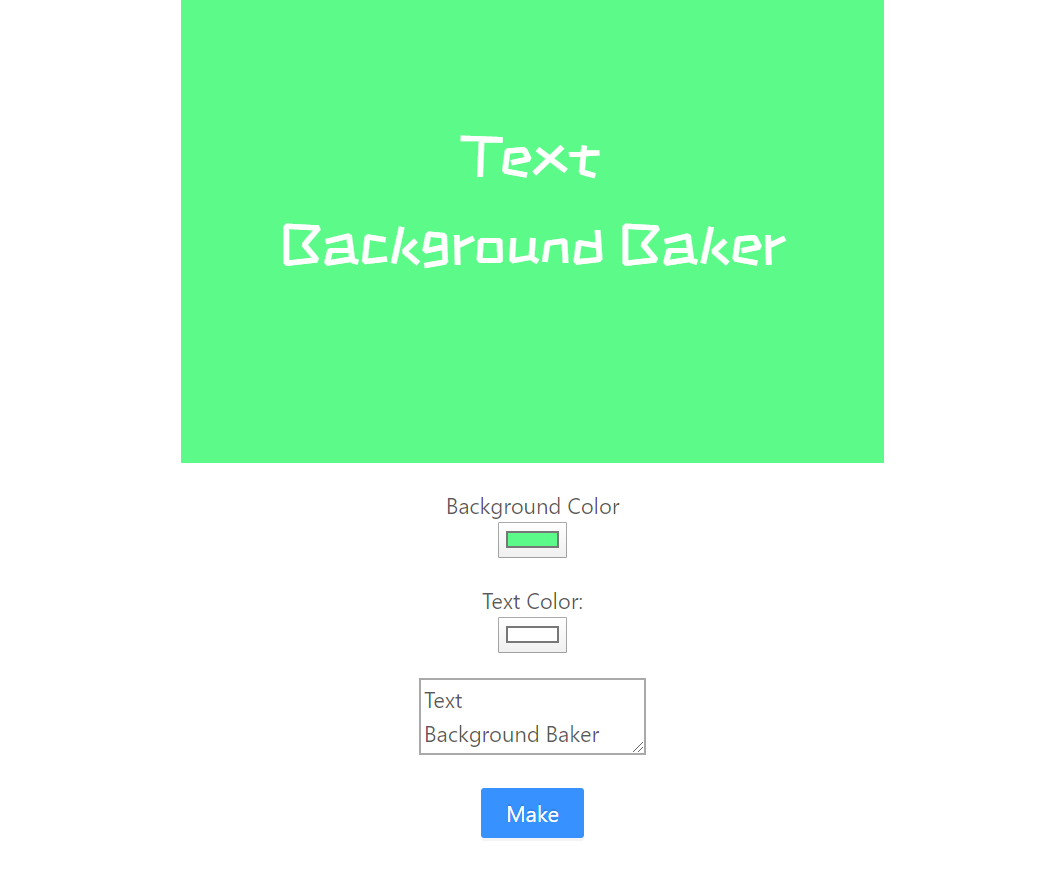
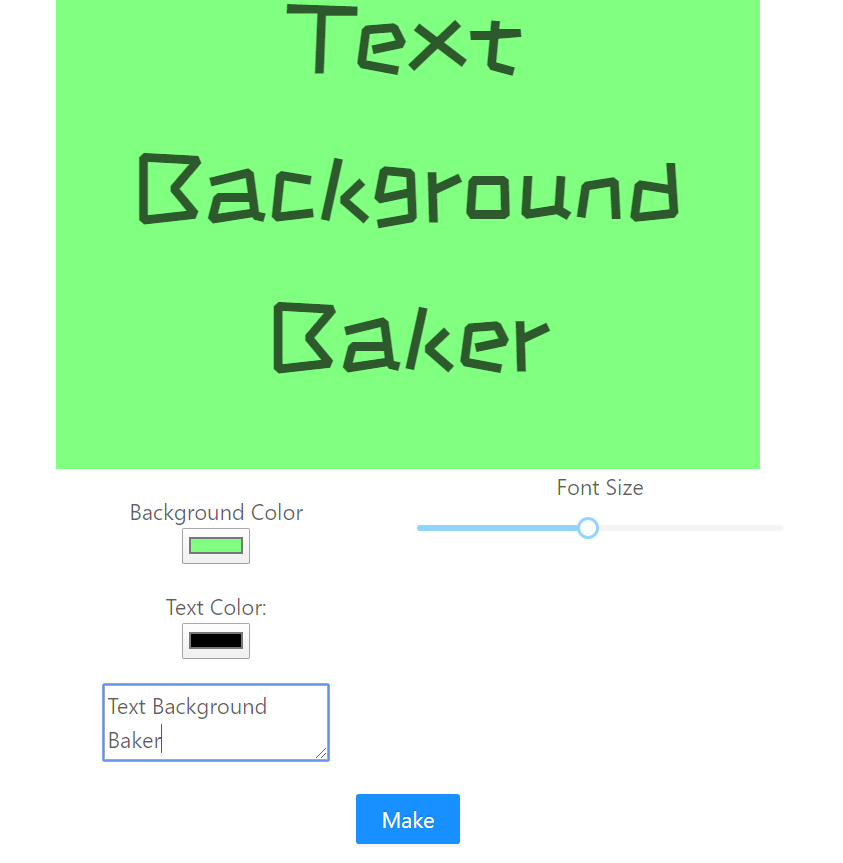
Add font size slider

diff --git a/src/components/Home.tsx b/src/components/Home.tsx
@@ -1,5 +1,5 @@
 import React, { useState } from 'react';
-import { Button } from 'antd';
+import { Button, Slider, Row, Col } from 'antd';
 import 'antd/dist/antd.css';
 import '../css/Home.css';
 
@@ -10,24 +10,27 @@ const defaults = {
     }
 };
 
-const styles = {
-    preview: {
-        height: "300px",
-        width: "450px",
-        margin: "auto"
-    }
-}
-
 const Home: React.FC<{}> = props => {
     const [bgColor, setBgColor] = useState(defaults.color.background);
     const [textColor, setTextColor] = useState(defaults.color.text);
     const [text, setText] = useState("");
+    const [fontSize, setFontSize] = useState(36);
+
+    const styles = {
+        preview: {
+            height: "300px",
+            width: "450px",
+            margin: "auto"
+        },
+        preivewText: {
+            fontSize: fontSize
+        }
+    }
 
     const onMakeHandler = () => {
+
         const preview = document.getElementById("preview-area");
 
-
-        
     };
 
     const onChangeText = (e: any) => {
@@ -41,11 +44,17 @@ const Home: React.FC<{}> = props => {
 
     };
 
+    const onChangeFontSize = (value: any) => {
+
+        setFontSize(value);
+     
+    }
+
     const onChangeColor = (name: string) => {
 
         if (name === "background") {
-        
-            return (e: any):void => {
+
+            return (e: any): void => {
                 const preview = document.getElementById("preview-area");
 
                 if (!preview) {
@@ -55,10 +64,10 @@ const Home: React.FC<{}> = props => {
                 setBgColor(e.target.value);
                 preview.style.backgroundColor = e.target.value;
             }
-           
+
         } else if (name === "text") {
 
-            return (e: any):void => {
+            return (e: any): void => {
                 const preview = document.getElementById("preview-area");
 
                 if (!preview) {
@@ -75,26 +84,40 @@ const Home: React.FC<{}> = props => {
     return (
         <div>
             <div id="preview-area" style={styles.preview}>
-                <p id="preview-text">text</p>
+                <p id="preview-text" style={styles.preivewText}>text</p>
             </div>
 
-            <div className="control color-picker">
-                <label>Background Color</label>
-                <div>
-                    <input type="color" value={bgColor} onChange={onChangeColor("background")}></input>
-                </div>
-            </div>
+            <Row style={{width: "40%", margin: "auto"}}>
+                <Col span={12}>
+                    <div className="control color-picker">
+                        <label>Background Color</label>
+                        <div>
+                            <input type="color" value={bgColor} onChange={onChangeColor("background")}></input>
+                        </div>
+                    </div>
 
-            <div className="control color-picker">
-                <label>Text Color:</label>
-                <div>
-                    <input type="color" value={textColor} onChange={onChangeColor("text")}></input>
-                </div>
-            </div>
+                    <div className="control color-picker">
+                        <label>Text Color:</label>
+                        <div>
+                            <input type="color" value={textColor} onChange={onChangeColor("text")}></input>
+                        </div>
+                    </div>
 
-            <div className="control input-text">
-                <textarea placeholder="enter your text here" value={text} onChange={onChangeText}></textarea>
-            </div>
+                    <div className="control input-text">
+                        <textarea placeholder="enter your text here" value={text} onChange={onChangeText}></textarea>
+                    </div>
+                </Col>
+
+                <Col span={12}>
+                    <label>Font Size</label>
+                    <Slider
+                        min={2}
+                        max={128}
+                        value={fontSize}
+                        onChange={onChangeFontSize}
+                    />
+                </Col>
+            </Row>
 
             <div className="control button-wrapper" onClick={onMakeHandler}>
                 <Button type="primary">Make</Button>

diff --git a/src/css/Home.css b/src/css/Home.css
@@ -10,6 +10,5 @@
 #preview-text {
     width: 100%;
     text-align: center;
-    font-size: 36px;
     font-family: 'ZCOOL KuaiLe';
 }
